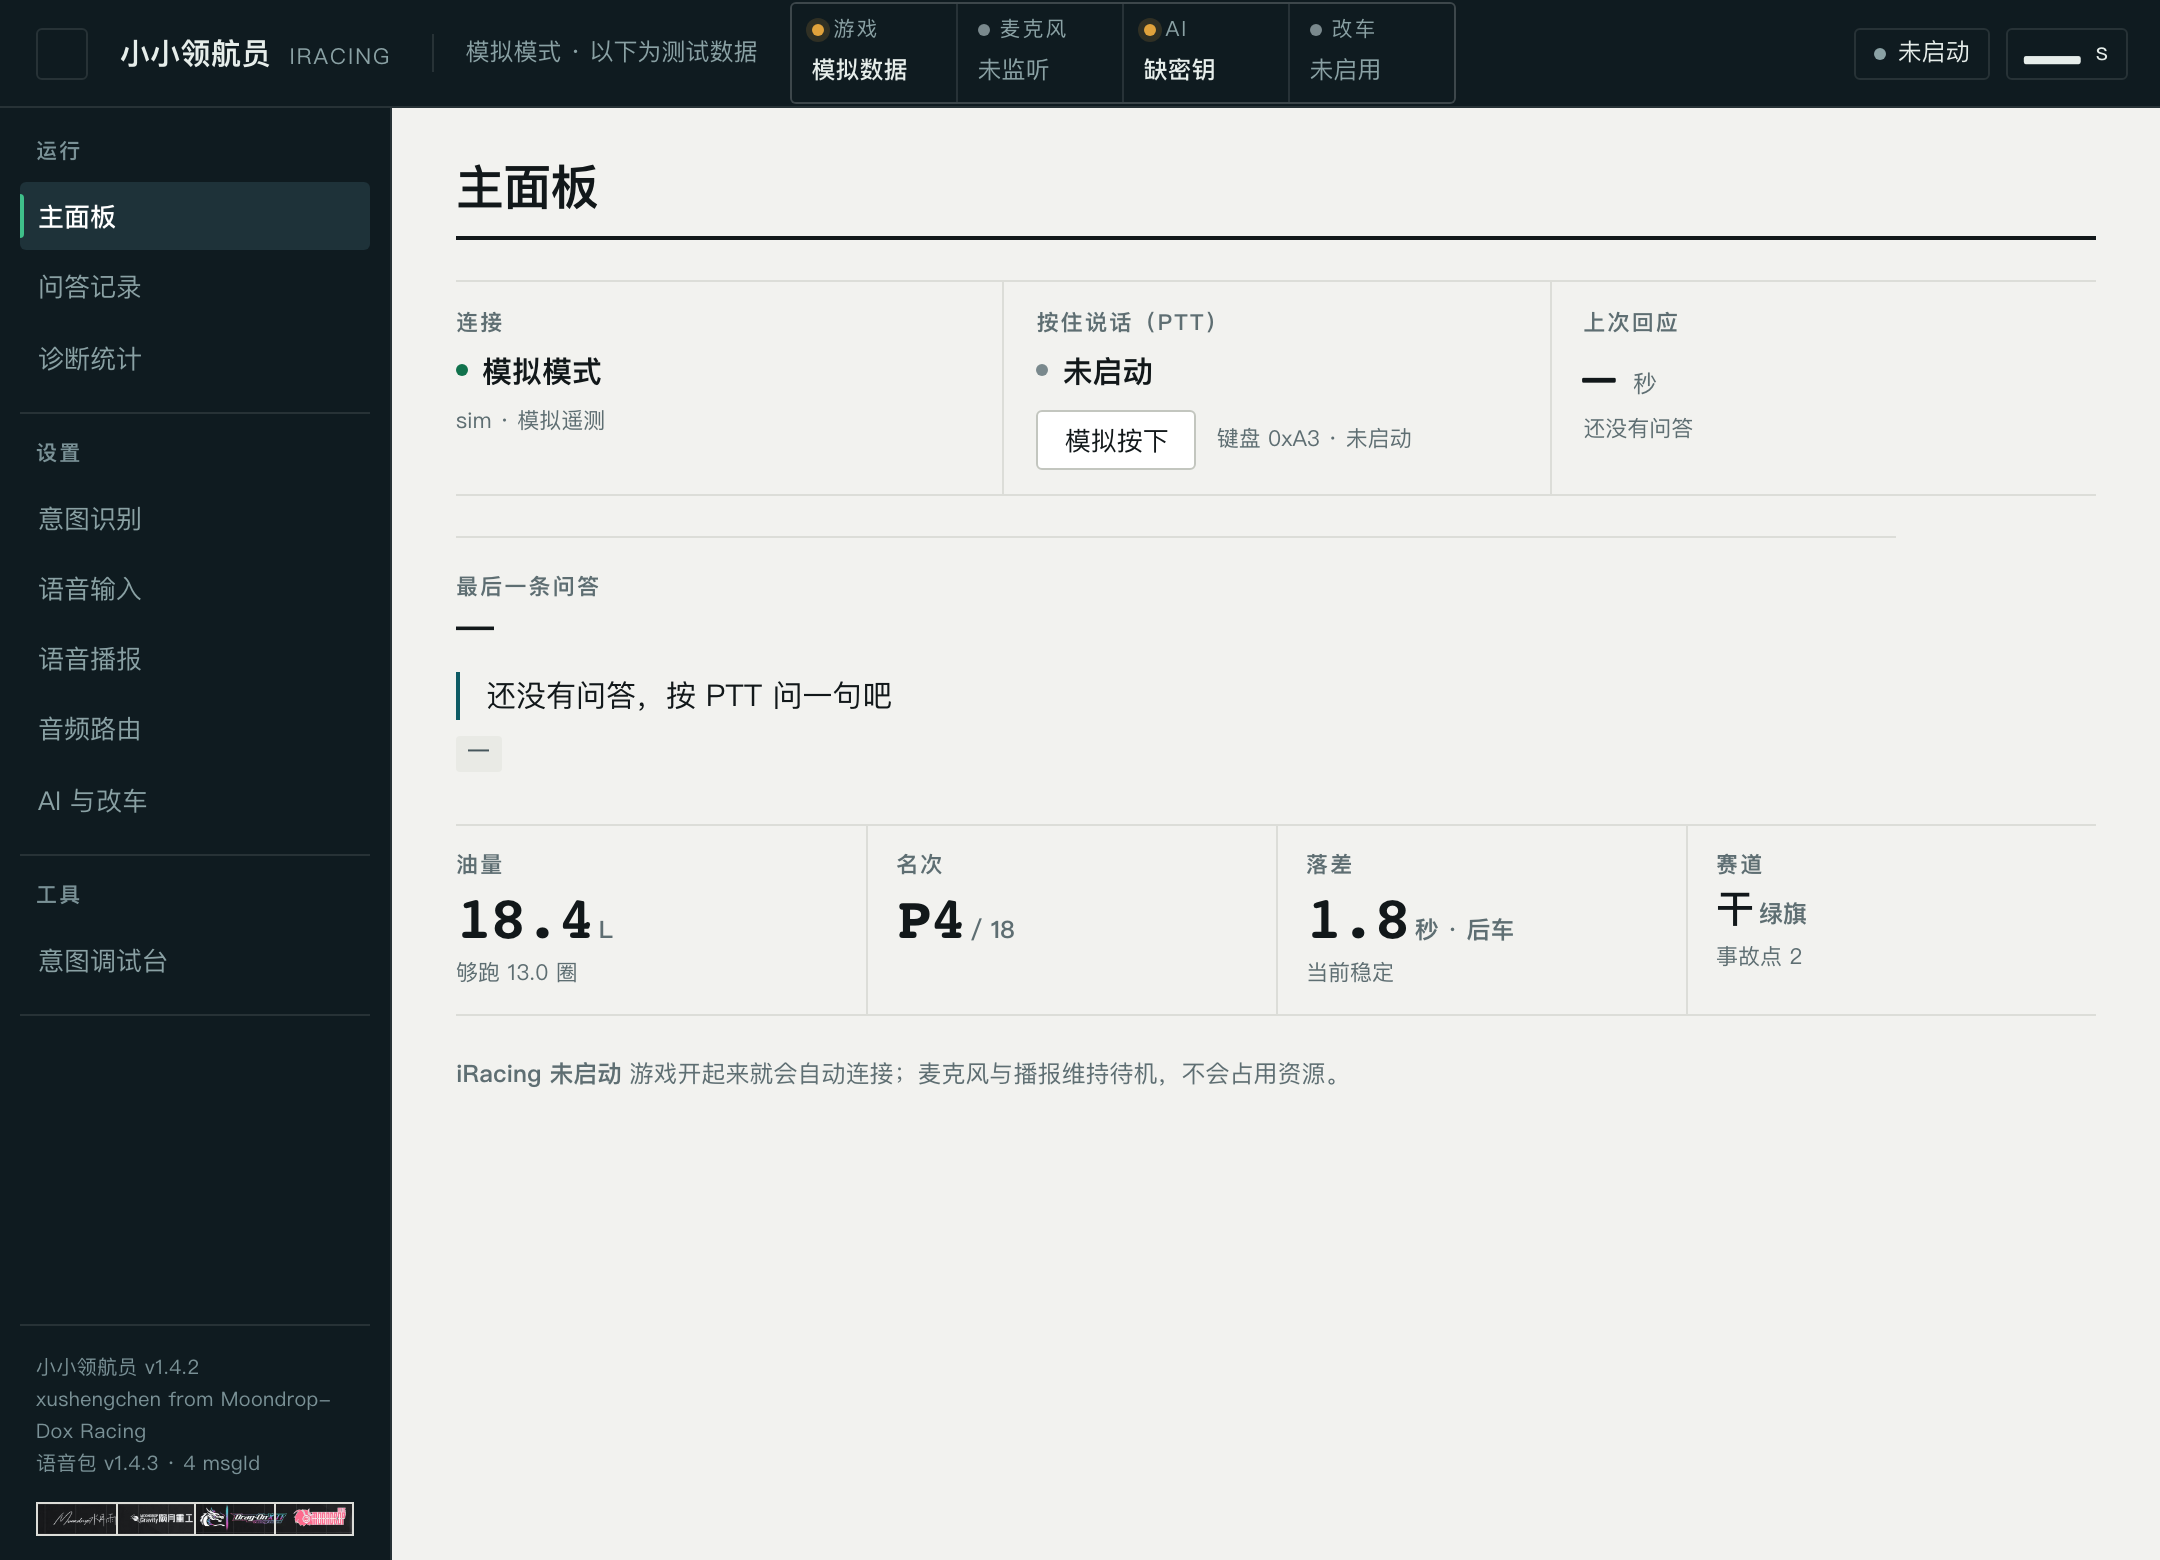
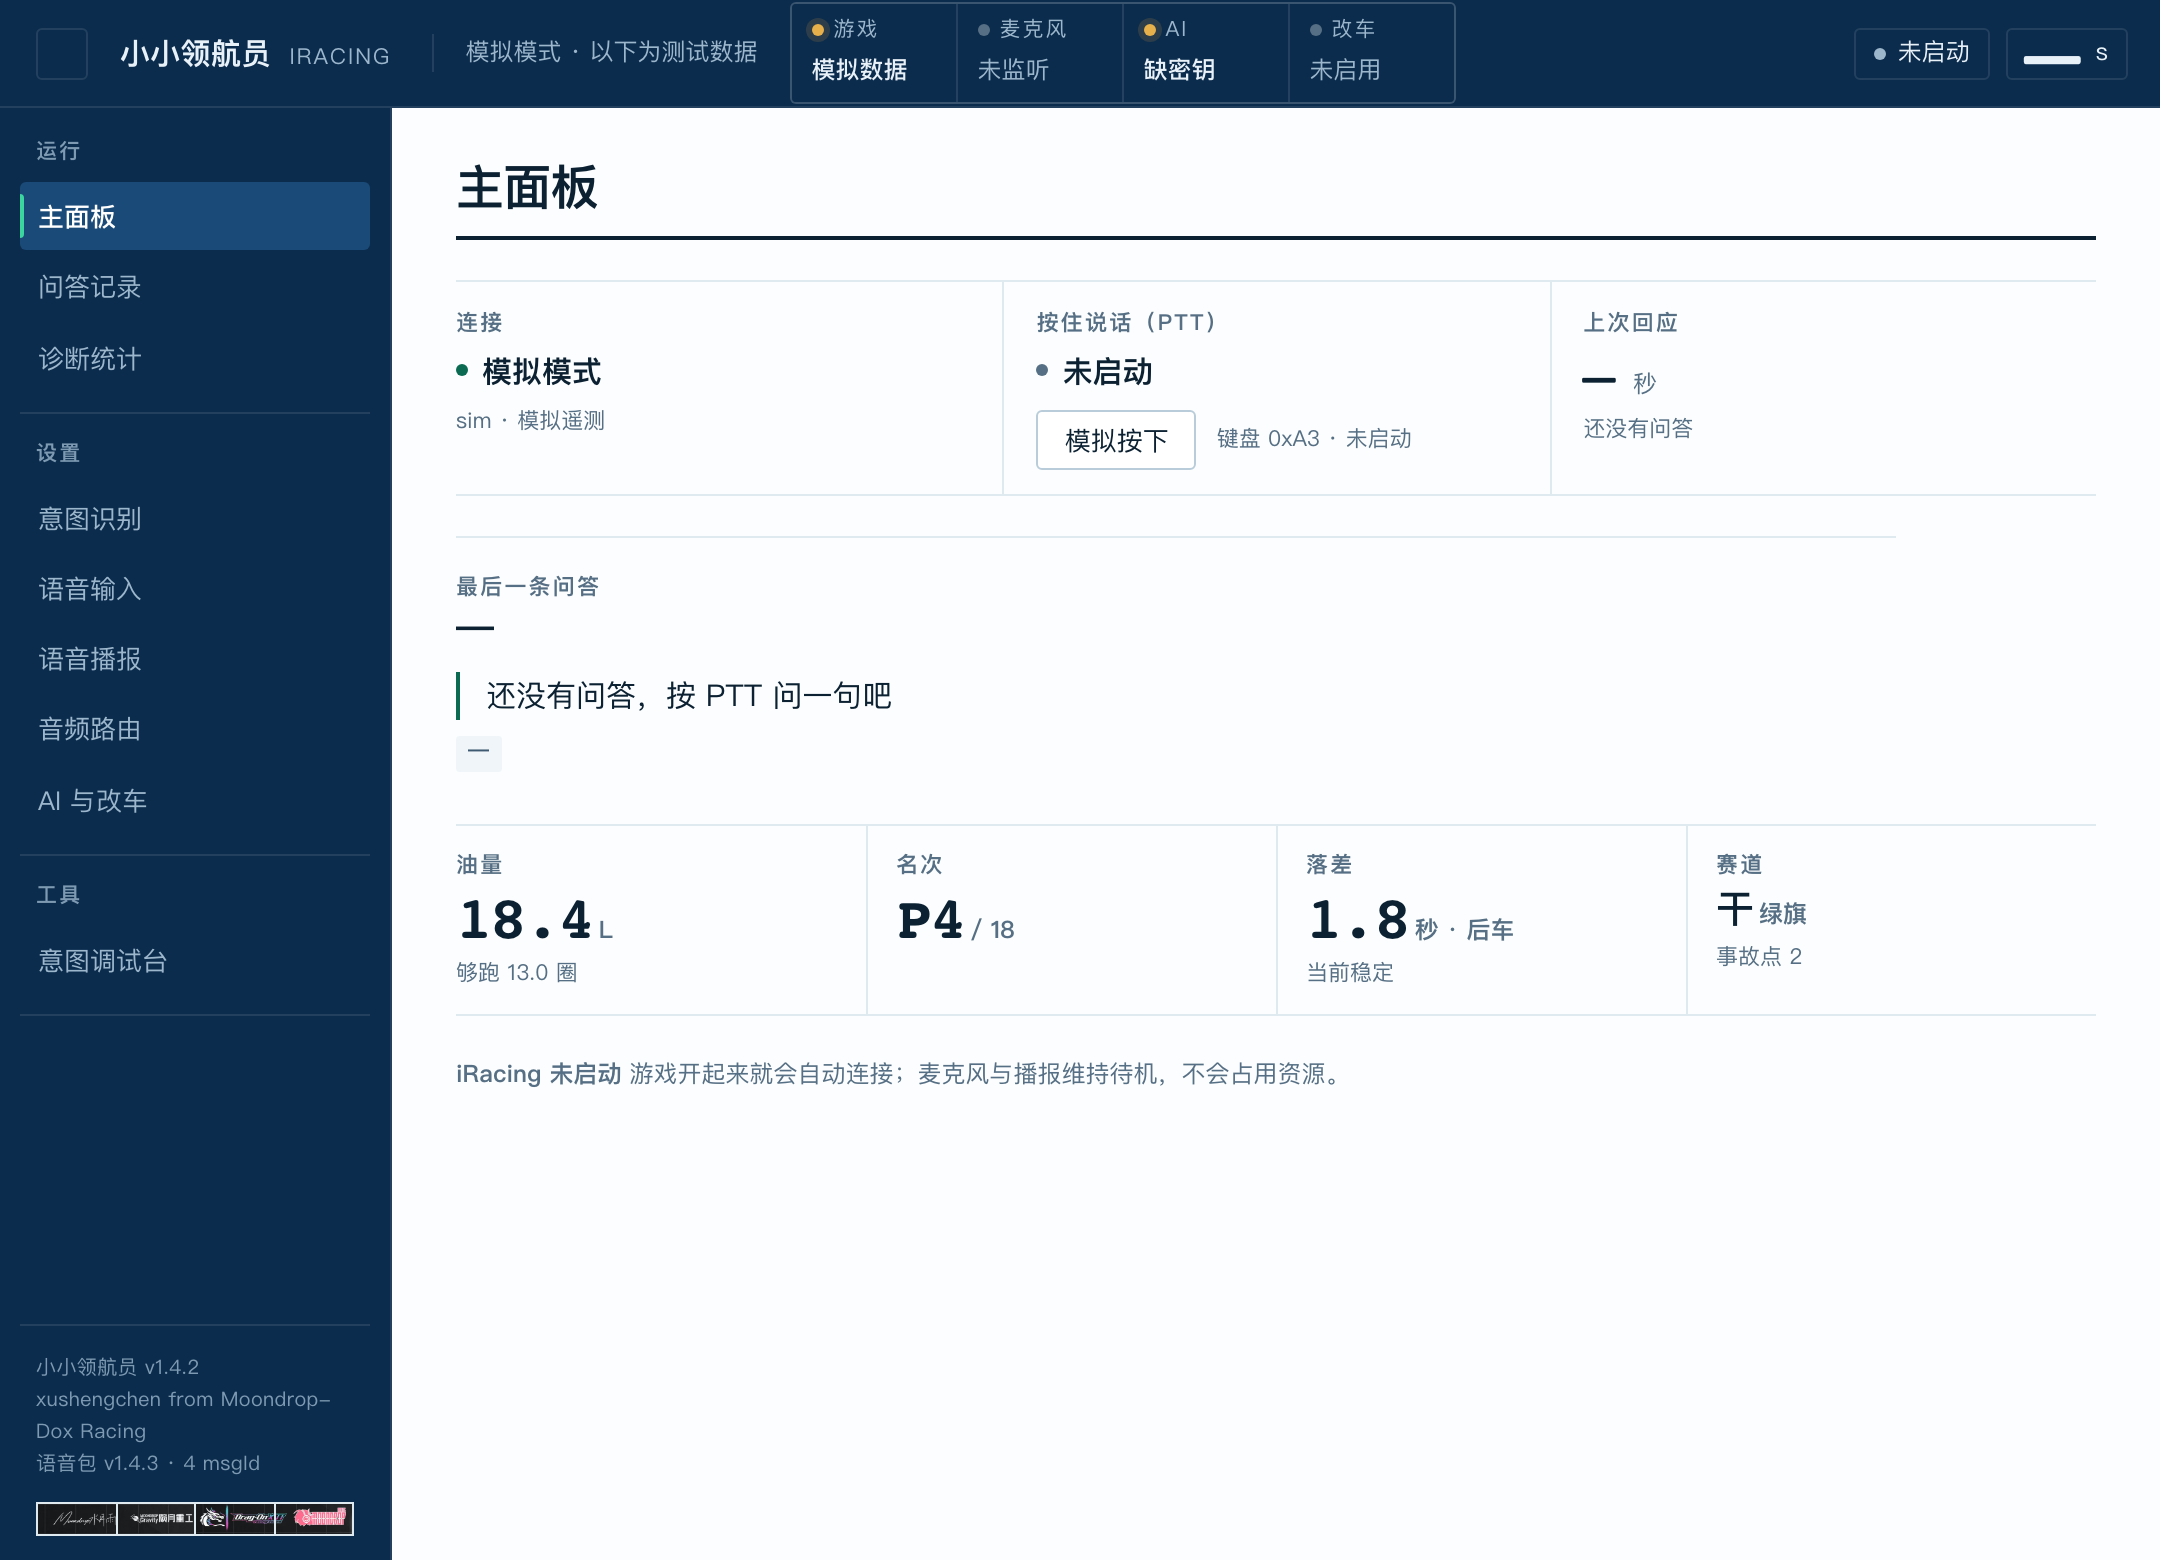
style(ui): 配色换成蓝绿白三色
按用户要求改三色体系：深蓝机身 + 白色工作面 + 绿色交互。

分工写死，避免颜色互相抢活：
· 蓝 = 结构（顶栏/左轨 #0B2C4D、正文蓝黑 #0C2233、发丝规）
· 绿 = 交互（按钮、焦点、选中、当前页标记 #0B6B52）
· 白 = 地面（工作区 #FBFDFE，控件面 #FFFFFF）
· 另加 --data #1F6E9E 专给条形图与图例——绿色如果进了图表，
  会被读成「好」，那是语义污染

原来的近黑石墨换成了深蓝，暖灰纸面换成近白，青绿主色换成
更鲜明的墨绿。28 个硬编码颜色逐个映射，无旧色残留。

验证：九页全部 0 处对比度不达标（最低 4.83:1）；1080/1280/1440
三档无溢出；截图与 DESIGN.md 调色板表已同步更新。

diff --git a/voice-assistant/app/static/index.html b/voice-assistant/app/static/index.html
@@ -7,37 +7,38 @@
    纸白工作面 + 深石墨机身；发丝规分栏，无浮起卡片；数据等宽右对齐。
    ========================================================================== */
 
-html, body { margin: 0; width: 100%; height: 100%; background: #0F1B20; }
+html, body { margin: 0; width: 100%; height: 100%; background: #0B2C4D; }
 
 .ira {
   /* ---- 机身 ---- */
-  --shell:        #0F1B20;
-  --shell-2:      #16262D;
-  --shell-3:      #1E3239;
-  --shell-ink:    #E6EDEA;
-  --shell-dim:    #8AA1A4;
+  --shell:        #0B2C4D;
+  --shell-2:      #123A61;
+  --shell-3:      #1A4A78;
+  --shell-ink:    #E9F1F8;
+  --shell-dim:    #9CB6CC;
   --shell-line:   rgba(255,255,255,0.10);
 
   /* ---- 纸面 ---- */
-  --paper:        #F2F2EF;
+  --paper:        #FBFDFE;
   --surface:      #FFFFFF;
-  --well:         #E9EAE5;
-  --ink:          #12181A;
-  --ink-2:        #46565C;
-  --ink-3:        #5E6E72;
-  --line:         #DCDDD8;
-  --line-strong:  #C3C6BF;
+  --well:         #EFF5F9;
+  --ink:          #0C2233;
+  --ink-2:        #3E5A72;
+  --ink-3:        #566F84;
+  --line:         #DFE9F0;
+  --line-strong:  #B9CCD9;
 
   /* ---- 一个主色，只给「可操作 / 选中」 ---- */
-  --accent:       #0E5B64;
-  --accent-ink:   #0A464D;
-  --accent-wash:  #E3EDEC;
+  --accent:       #0B6B52;
+  --accent-ink:   #08553F;
+  --accent-wash:  #E3F2EC;
 
   /* ---- 状态色，只表达就绪度 ---- */
-  --ok:           #11724C;
-  --warn:         #8F5F08;
-  --bad:          #9E2A21;
-  --idle:         #7A898D;
+  --ok:           #0B6B52;
+  --warn:         #8A5A06;
+  --bad:          #9E2B24;
+  --idle:         #566F84;
+  --data:         #1F6E9E;   /* 数据/图表用蓝，绿色留给交互 */
 
   /* ---- 层级 ---- */
   --fs-xs: 11px;
@@ -92,7 +93,7 @@ html, body { margin: 0; width: 100%; height: 100%; background: #0F1B20; }
   border: 3px solid var(--paper);
   border-radius: 6px;
 }
-.ira ::-webkit-scrollbar-thumb:hover { background: #A8ACA4; }
+.ira ::-webkit-scrollbar-thumb:hover { background: #93AFC4; }
 
 /* ========================================================== 机身骨架 */
 .ira-window {
@@ -207,9 +208,9 @@ body.desktop-shell .window-controls { display: flex; }
   color: var(--shell-ink);
   white-space: nowrap;
 }
-.ira-bus-item[data-state="ok"] .ira-bus-dot    { background: #3FBF8A; box-shadow: 0 0 0 3px rgba(63,191,138,0.16); }
-.ira-bus-item[data-state="warn"] .ira-bus-dot  { background: #E0A23C; box-shadow: 0 0 0 3px rgba(224,162,60,0.16); }
-.ira-bus-item[data-state="bad"] .ira-bus-dot   { background: #E4695C; box-shadow: 0 0 0 3px rgba(228,105,92,0.18); }
+.ira-bus-item[data-state="ok"] .ira-bus-dot    { background: #3BD6A0; box-shadow: 0 0 0 3px rgba(63,191,138,0.16); }
+.ira-bus-item[data-state="warn"] .ira-bus-dot  { background: #E8B04A; box-shadow: 0 0 0 3px rgba(224,162,60,0.16); }
+.ira-bus-item[data-state="bad"] .ira-bus-dot   { background: #F0796B; box-shadow: 0 0 0 3px rgba(228,105,92,0.18); }
 .ira-bus-item[data-state="off"] .ira-bus-val   { color: var(--shell-dim); font-weight: 400; }
 
 /* 顶栏里的轻量 chip（保留原标记，新增外观） */
@@ -243,11 +244,11 @@ body.desktop-shell .window-controls { display: flex; }
   background: var(--idle);
 }
 [data-state="on"] > .ira-dot,
-.ira-dot[data-state="on"]   { background: #3FBF8A; }
+.ira-dot[data-state="on"]   { background: #3BD6A0; }
 [data-state="recording"] > .ira-dot,
-.ira-dot[data-state="recording"] { background: #E4695C; }
+.ira-dot[data-state="recording"] { background: #F0796B; }
 [data-state="thinking"] > .ira-dot,
-.ira-dot[data-state="thinking"]  { background: #E0A23C; }
+.ira-dot[data-state="thinking"]  { background: #E8B04A; }
 [data-state="idle"] > .ira-dot,
 .ira-dot[data-state="idle"]      { background: var(--shell-dim); }
 
@@ -263,7 +264,7 @@ body.desktop-shell .window-controls { display: flex; }
   cursor: pointer;
 }
 .window-controls button:hover { background: var(--shell-2); color: var(--shell-ink); }
-.window-controls button:last-child:hover { background: #A32A22; color: #fff; }
+.window-controls button:last-child:hover { background: #9E2B24; color: #fff; }
 
 /* ========================================================== 主体 */
 .ira-body { display: flex; flex: 1; min-height: 0; background: var(--paper); }
@@ -295,7 +296,7 @@ body.desktop-shell .window-controls { display: flex; }
   font-weight: 600;
   letter-spacing: 0.11em;
   text-transform: uppercase;
-  color: #7A9196;
+  color: #7E9AB2;
 }
 .ira-navbtn {
   display: flex;
@@ -321,7 +322,7 @@ body.desktop-shell .window-controls { display: flex; }
   position: absolute;
   left: 0; top: 6px; bottom: 6px;
   width: 2px;
-  background: #3FBF8A;
+  background: #3BD6A0;
   border-radius: 0 2px 2px 0;
 }
 
@@ -331,7 +332,7 @@ body.desktop-shell .window-controls { display: flex; }
   font-size: 10px;
   line-height: 1.6;
   letter-spacing: 0.02em;
-  color: #7A9196;
+  color: #7E9AB2;
   border-top: 1px solid var(--shell-line);
 }
 
@@ -438,8 +439,8 @@ body.desktop-shell .window-controls { display: flex; }
   background-size: 5px 5px, 5px 5px;
   background-repeat: no-repeat;
 }
-.ira-input::placeholder { color: #9AA6A9; }
-.ira-input:hover, .ira-select:hover { border-color: #A8ACA4; }
+.ira-input::placeholder { color: #8CA4B6; }
+.ira-input:hover, .ira-select:hover { border-color: #93AFC4; }
 .ira-input:focus, .ira-select:focus {
   outline: none;
   border-color: var(--accent);
@@ -491,7 +492,7 @@ body.desktop-shell .window-controls { display: flex; }
   cursor: pointer;
   white-space: nowrap;
 }
-.ira-btn:hover { border-color: #A8ACA4; background: #FAFAF8; }
+.ira-btn:hover { border-color: #93AFC4; background: #F7FBFD; }
 .ira-btn:active { background: var(--well); }
 .ira-btn:disabled { opacity: 0.5; cursor: not-allowed; }
 .ira-btn.ghost { border-color: transparent; background: transparent; color: var(--ink-2); }
@@ -602,14 +603,14 @@ body.desktop-shell .window-controls { display: flex; }
   color: var(--ink-2);
 }
 .ira-badge.l1 { background: var(--accent-wash); color: var(--accent-ink); }
-.ira-badge.l2 { background: #EFE7D6; color: var(--warn); }
-.ira-badge.l3 { background: #E7E9EC; color: var(--ink-2); }
+.ira-badge.l2 { background: #F4EBD8; color: var(--warn); }
+.ira-badge.l3 { background: #E6EEF4; color: var(--ink-2); }
 
 .ira-swatch {
   display: inline-block;
   width: 10px; height: 10px;
   border-radius: 2px;
-  background: var(--well);
+  background: var(--data);
   margin-right: 6px;
   vertical-align: -1px;
 }
@@ -625,7 +626,7 @@ body.desktop-shell .window-controls { display: flex; }
 }
 .ira-barlabel { color: var(--ink-2); white-space: nowrap; overflow: hidden; text-overflow: ellipsis; }
 .ira-barfill { height: 6px; background: var(--well); border-radius: 1px; overflow: hidden; }
-.ira-barfill > i { display: block; height: 100%; background: var(--accent); }
+.ira-barfill > i { display: block; height: 100%; background: var(--data); }
 .ira-barval {
   font-family: ui-monospace, "Consolas", monospace;
   font-variant-numeric: tabular-nums;

diff --git a/docs/design/DESIGN.md b/docs/design/DESIGN.md
@@ -42,27 +42,33 @@
 这是本产品真实的结构（四个独立子系统），不是装饰。它回答「我能不能开跑」——这个问题
 原先散落在五个页面里，要用户自己拼。
 
-## 调色板
+## 调色板：蓝 · 绿 · 白
 
-一个主色只给「可操作 / 当前选中」；状态色只表达就绪度，绝不装饰。
+三色分工明确，各管一件事：**蓝是结构，绿是交互，白是地面**。
 
 | token | 值 | 用途 |
 |---|---|---|
-| `--shell` | `#0F1B20` | 顶栏、左轨 |
-| `--shell-2/3` | `#16262D` / `#1E3239` | 轨内 hover / 选中 |
-| `--shell-ink` | `#E6EDEA` | 深底正文（14.75:1） |
-| `--shell-dim` | `#8AA1A4` | 深底次要（6.44:1） |
-| `--paper` | `#F2F2EF` | 工作区地面 |
+| `--shell` | `#0B2C4D` | 顶栏、左轨（深蓝） |
+| `--shell-2/3` | `#123A61` / `#1A4A78` | 轨内 hover / 选中 |
+| `--shell-ink` | `#E9F1F8` | 深底正文（12.42:1） |
+| `--shell-dim` | `#9CB6CC` | 深底次要（6.73:1） |
+| `--paper` | `#FBFDFE` | 工作区地面（白） |
 | `--surface` | `#FFFFFF` | 输入框、行底色 |
-| `--ink` | `#12181A` | 纸面正文（15.98:1） |
-| `--ink-2` | `#46565C` | 次要 |
-| `--ink-3` | `#5E6E72` | 说明小字（4.74:1） |
-| `--line` / `--line-strong` | `#DCDDD8` / `#C3C6BF` | 发丝规 / 控件边 |
-| `--accent` | `#0E5B64` | 主色：按钮、焦点、选中条 |
-| `--ok` / `--warn` / `--bad` | `#11724C` / `#8F5F08` / `#9E2A21` | 状态（纸面） |
-| 深底状态点 | `#3FBF8A` / `#E0A23C` / `#E4695C` | 状态（机身） |
+| `--well` | `#EFF5F9` | 凹陷面（浅蓝白） |
+| `--ink` | `#0C2233` | 纸面正文，蓝黑（15.93:1） |
+| `--ink-2` | `#3E5A72` | 次要（7.07:1） |
+| `--ink-3` | `#566F84` | 说明小字（5.14:1） |
+| `--line` / `--line-strong` | `#DFE9F0` / `#B9CCD9` | 发丝规 / 控件边 |
+| `--accent` | `#0B6B52` | **绿**：按钮、焦点、选中、当前页 |
+| `--data` | `#1F6E9E` | **蓝**：条形图、图例、数据系列 |
+| `--ok` / `--warn` / `--bad` | `#0B6B52` / `#8A5A06` / `#9E2B24` | 状态（纸面） |
+| 深底状态点 | `#3BD6A0` / `#E8B04A` / `#F0796B` | 状态（机身） |
 
-**全部文本 ≥4.5:1**（大字 ≥3:1），九个页面实测零不达标。
+**为什么绿是交互、蓝是数据**：绿 = 就绪/可执行，天然适合「点这个」；蓝承担结构
+与数据，避免绿色在图表里被误读成「好」。状态色里的琥珀与红是语义必需，不参与
+三色体系，只在真正需要警报时出现。
+
+**全部文本 ≥4.5:1**（大字 ≥3:1），九个页面实测零不达标；最低一处 4.83:1。
 
 ## 字阶
 
